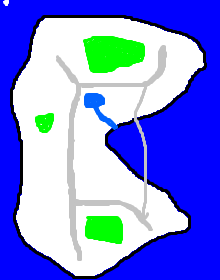
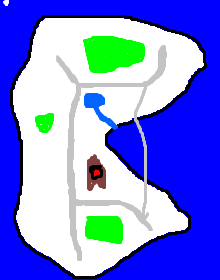
lava

Changed region(s): [[0.3818, 0.5429, 0.4909, 0.6857]]

diff --git a/equipment.js b/equipment.js
@@ -49,6 +49,7 @@ TileType.Hills=7;
 TileType.Mountains=4;
 TileType.Water=20;
 TileType.Ocean=24;
+TileType.lava=28;
 TileType.Forest=3;
 TileType.Road=8;
 TileType.Sand=9;
@@ -112,7 +113,7 @@ namesused[0]=new Array(120);
 namesused[1]=new Array(120);
 for( var i=0; i<120; i++ ){ namesused[0][i]=false;namesused[1][i]=false; }
 
-var tileSprite=new Array(30);
+var tileSprite=new Array(39);
 tileSprite[TileType.Grass] = Sprite("grass");
 tileSprite[TileType.Forest] = Sprite("darkgrass"); 
 tileSprite[TileType.Ocean] = Sprite("ocean");
@@ -123,15 +124,20 @@ tileSprite[TileType.Water] = Sprite("water");
 tileSprite[TileType.Water+1] = Sprite("water");
 tileSprite[TileType.Water+2] = Sprite("water");
 tileSprite[TileType.Ocean+3] = Sprite("water");
+tileSprite[TileType.Lava] = Sprite("lava0");
+tileSprite[TileType.Lava+1] = Sprite("lava1");
+tileSprite[TileType.Lava+2] = Sprite("lava2");
+tileSprite[TileType.Lava+3] = Sprite("lava3");
+tileSprite[TileType.Lava+4] = Sprite("lava4");
 tileSprite[TileType.Mountains] = Sprite("stone");
 tileSprite[TileType.Hills] = Sprite("hills");
 tileSprite[TileType.Swamp] = Sprite("swamp");
-tileSprite[TileType.Plains] = Sprite("plains");
+tileSprite[TileType.Plains] = Sprite("dirt");
 tileSprite[TileType.Road] = Sprite("road");
 tileSprite[TileType.Sand] = Sprite("sand");
 
 
-var tileColors=new Array(30);
+var tileColors=new Array(39);
 tileColors[TileType.Grass] = "#008000";
 tileColors[TileType.Forest] = "#003300";
 tileColors[TileType.Ocean] = "#000099";
@@ -142,6 +148,7 @@ tileColors[TileType.Swamp] = "#669900";
 tileColors[TileType.Plains] = "#FF9966";
 tileColors[TileType.Road] = "#CCCCCC";
 tileColors[TileType.Sand] = "#999966";
+tileColors[TileType.Lava] = "#FF0000";
 
 var poisonsprite = Sprite("poison");
 var selector = Sprite("cursor");
@@ -161,7 +168,7 @@ explosionsprite[1] =Sprite("explosion1");
 explosionsprite[2] =Sprite("explosion2");
 explosionsprite[3] =Sprite("explosion3");
 
-var numClouds=14;
+var numClouds=24;
 
 function cloud(){
 	this.x=Math.floor(Math.random()*3520)+100;
@@ -188,7 +195,7 @@ function cloud(){
 	}
 	this.update=function(){
 		this.y-=this.layer*wind;
-		if (this.y<-200) {this.y=Math.floor(Math.random()*4480)+300;this.x=Math.floor(Math.random()*3420)+100;}
+		if (this.y<-200) {this.y=Math.floor(Math.random()*300)+4480;this.x=Math.floor(Math.random()*3420)+100;}
 	};
 };
 var clouds=new Array(numClouds);

diff --git a/brownsauce.js b/brownsauce.js
@@ -2853,8 +2853,11 @@ function Map(I) { //map object
 					tileSprite[dominantType.type].draw(canvas, (i-cam.x)*16/Math.pow(2,I.zoom-1), (j-cam.y)*16/Math.pow(2,I.zoom-1));
                 }else if(dominantType.type&& dominantType.type<24){
 					tileSprite[20+tileani].draw(canvas, (i-cam.x)*16/Math.pow(2,I.zoom-1), (j-cam.y)*16/Math.pow(2,I.zoom-1));
-				}else{
+				}else if (dominantType.type&& dominantType.type<28) {
 					tileSprite[24+tileani].draw(canvas, (i-cam.x)*16/Math.pow(2,I.zoom-1), (j-cam.y)*16/Math.pow(2,I.zoom-1));
+				}else 
+				{
+					tileSprite[TileType.Lava+tileani].draw(canvas, (i-cam.x)*16/Math.pow(2,I.zoom-1), (j-cam.y)*16/Math.pow(2,I.zoom-1));
 				}
             }
         }
@@ -2901,7 +2904,11 @@ function Map(I) { //map object
 			I.setTile(xPos, yPos, TileType.Road);
 		  } else if (( rgba[0]==1) && (rgba[1]==100) && (rgba[2]==255)){
 			I.setTile(xPos, yPos, TileType.Water);
-		  }   else {
+		  } else if (( rgba[0]==128) && (rgba[1]==64) && (rgba[2]==64)){
+			I.setTile(xPos, yPos, TileType.Plains);
+		  } else if (( rgba[0]==255) && (rgba[1]==1) && (rgba[2]==1)){
+			I.setTile(xPos, yPos, TileType.Lava);
+		  }  else {
 			I.setTile(xPos, yPos, TileType.Grass);
 		  }
 		}
@@ -3792,8 +3799,10 @@ function update() {
 	for(var i=0;i<numClouds;i++)
 	{
 		clouds[i].update();
+		if(maps[0].zoom>1)
+		{
 		clouds[i].sprite.draw(canvas, clouds[i].x-camera.x*16, clouds[i].y-camera.y*16);
-
+		}
 	}
 	canvas.restore();
     endgame();
